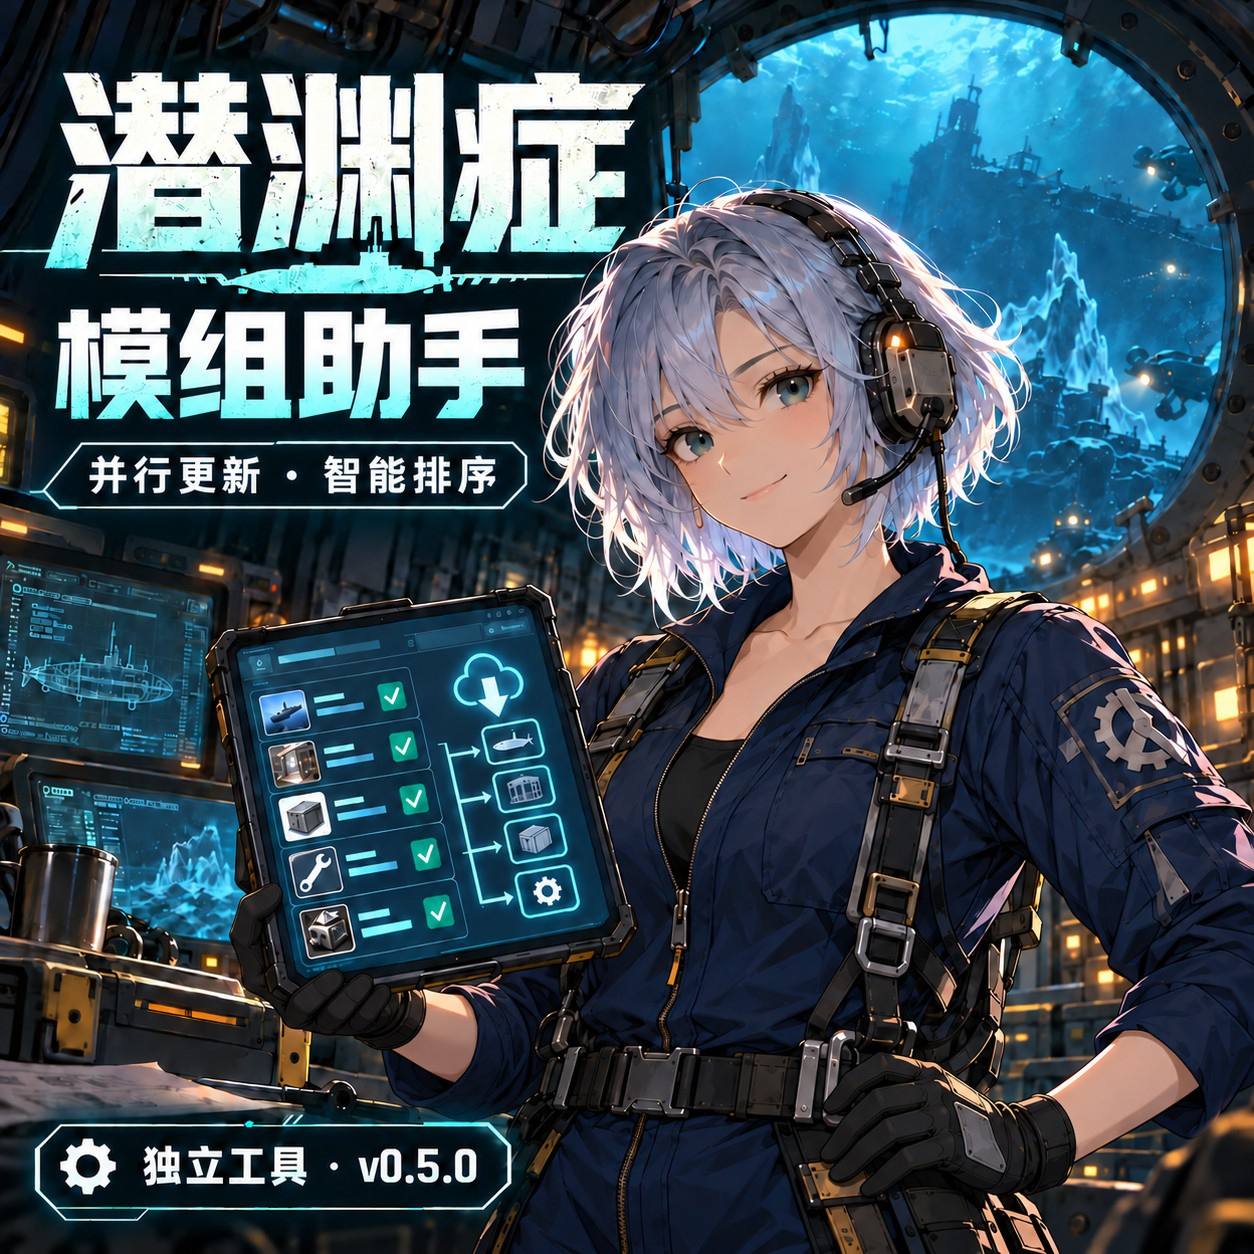
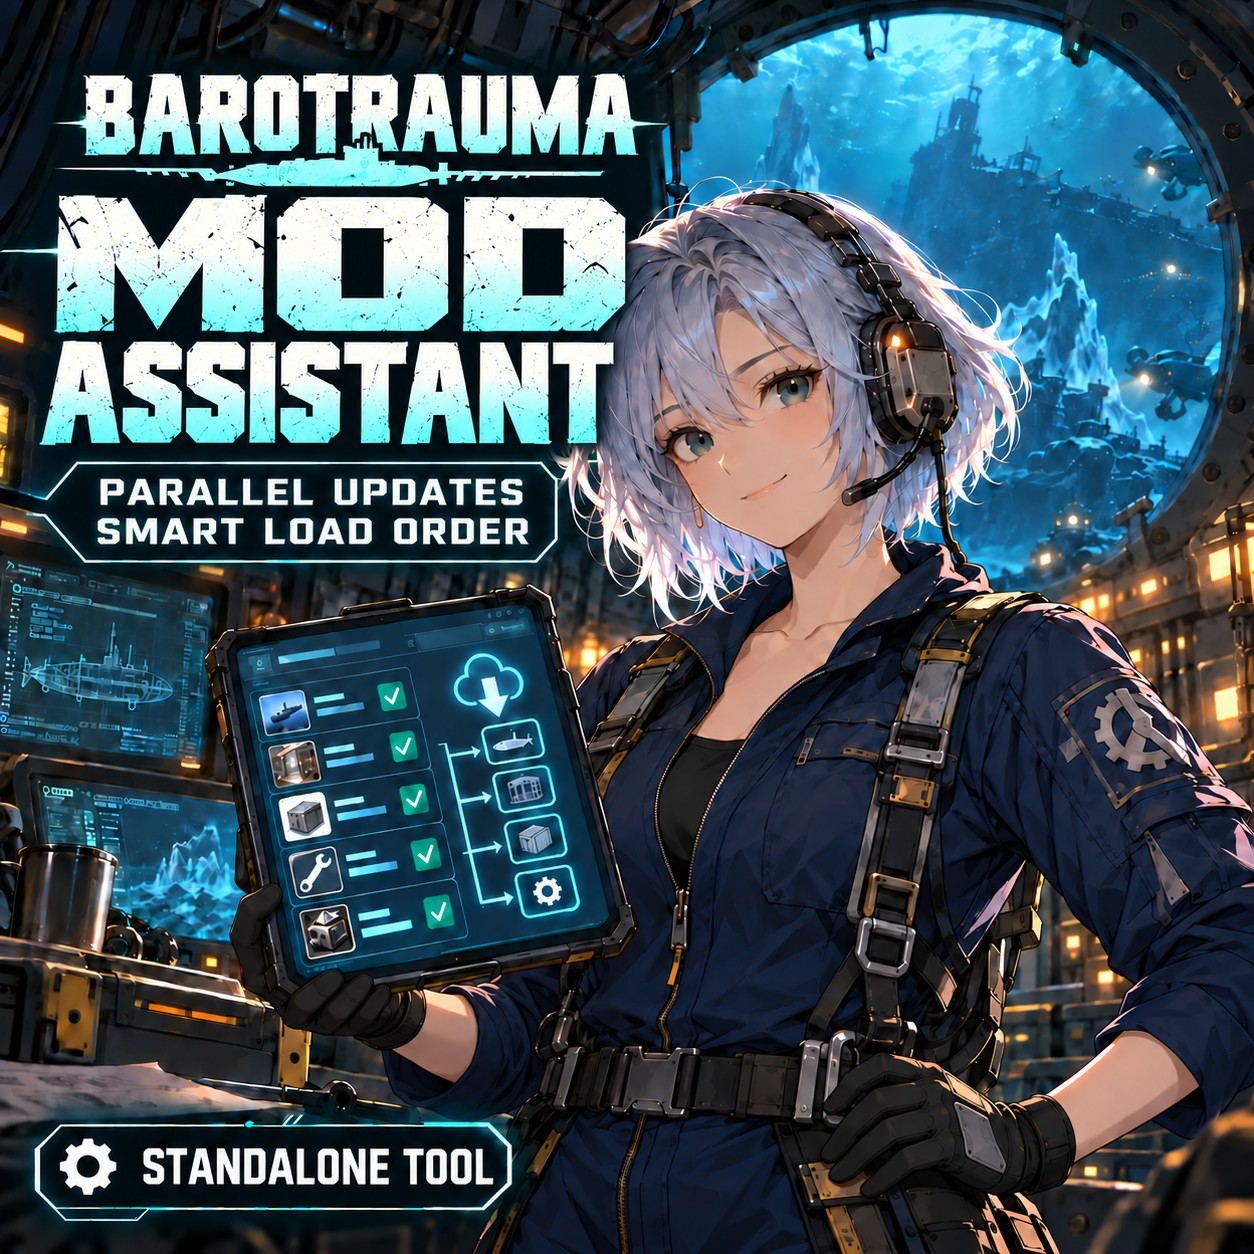
Publish English animated Workshop cover and verify localization

diff --git a/tools/encode_workshop_cover.py b/tools/encode_workshop_cover.py
@@ -1,0 +1,35 @@
+"""Encode the approved imagegen keyframes as a small looping Workshop GIF.
+
+Only format conversion, thumbnail resizing and GIF encoding occur here.
+The artwork and lighting in both input frames were edited with imagegen.
+Requires Pillow. Does not access Steam or modify software release files.
+"""
+from pathlib import Path
+from PIL import Image, ImageChops
+
+ROOT = Path(__file__).resolve().parents[1]
+
+def main():
+    inputs = [Image.open(ROOT / 'workshop/assets' / name).convert('RGB')
+              for name in ('cover-en.png', 'cover-en-bright.png')]
+    assert inputs[0].size == inputs[1].size
+    assert inputs[0].width == inputs[0].height
+    assert ImageChops.difference(*inputs).getbbox(), 'Animation frames must differ'
+    inputs[0].save(ROOT / 'workshop/cover.jpg', quality=90, optimize=True)
+    target = ROOT / 'workshop/cover-en.gif'
+    for size in (900, 800, 768, 700, 640):
+        frames = [im.resize((size, size), Image.Resampling.LANCZOS) for im in inputs]
+        palette = frames[1].quantize(colors=256)
+        frames = [im.quantize(palette=palette, dither=Image.Dither.NONE) for im in frames]
+        frames[0].save(target, save_all=True, append_images=frames[1:],
+                       duration=[1100, 1100], loop=0, optimize=True, disposal=1)
+        if target.stat().st_size < 900_000:
+            break
+    with Image.open(target) as result:
+        assert result.n_frames == 2 and result.info['loop'] == 0
+        assert result.width >= 640 and target.stat().st_size < 900_000
+        print(f'{target.name}: {result.width}x{result.height}, {result.n_frames} frames, '
+              f'{target.stat().st_size} bytes, 2.2s repeating light pulse')
+
+if __name__ == '__main__':
+    main()

diff --git a/workshop/cover-prompt.md b/workshop/cover-prompt.md
@@ -1,6 +1,6 @@
 # 封面制作记录
 
-方式：内置 imagegen 生成及编辑；未使用 CLI 或外部图片库。最终原图：`assets/cover-final.png`，工坊 JPEG：`cover.jpg`。
+方式：插画使用内置 imagegen 生成及编辑；未使用图片生成 CLI。下方首先保留旧中文封面的制作记录，英文动态封面记录见后半部分。
 
 最终提示词要点：原创二次元成年潜艇维修员，银蓝短发、青色眼睛、耳麦、实用深蓝工装与手套，在深海潜艇控制室拿着显示模块、下载箭头和勾选状态的管理平板。深蓝与青色光效，少量琥珀警示灯，窗外是冰冷海底与潜艇轮廓；画面清晰、专业、有吸引力，正方形封面，不采用现有角色或官方标志。
 
@@ -13,4 +13,20 @@
 - 并行更新 · 智能排序
 - 独立工具 · v0.5.0
 
-原图为 1254×1254；上传 JPEG 使用同尺寸格式转换，满足 Steam 预览图小于 1 MiB 的限制。
+旧中文原图为 1254×1254，保留在 `assets/cover-final.png`。
+
+## 英文动态封面（2026-10-03）
+
+使用内置 imagegen 对已经认可的中文封面做两次编辑。人物和构图沿用旧封面，移除版本号，所有文字改为英文。第二帧只要求增强灯光，不改变姿势或添加手臂。两张编辑结果经目视检查后保存为 `assets/cover-en.png` 和 `assets/cover-en-bright.png`。
+
+`tools/encode_workshop_cover.py` 使用 Pillow 将生成结果转换格式、缩小至 800×800、统一 GIF 调色板并编码两帧，各显示 1100 毫秒，无限循环。脚本不绘制光效、不合成额外内容。GIF 小于 900000 字节；静态 JPEG 保留原图尺寸，作为订阅包的兼容图。
+
+### 英文常亮帧完整提示词
+
+Use case: text-localization. Edit target: the supplied square Steam Workshop cover for Barotrauma Mod Assistant. Preserve the approved anime illustration EXACTLY: adult silver-blue short-haired submarine mechanic, teal eyes and headset, face, pose, practical dark-blue clothes, deep-sea submarine control-room backdrop, tablet held by her anatomically correct RIGHT hand on the viewer's LEFT, her LEFT hand on viewer's RIGHT resting on her hip. Exactly two arms and two hands, no extra hands, no new objects. Keep the framing and visual quality. Replace ALL Chinese text and the old version number with crisp readable ENGLISH lettering. Top left text: 'BAROTRAUMA' on one line with smaller condensed bold distressed white/cyan sci-fi type fitting comfortably above a large two-line title 'MOD' then 'ASSISTANT'. Maintain ample room around her face. The middle-left narrow outlined panel reads 'PARALLEL UPDATES' then 'SMART LOAD ORDER' in two readable lines. The bottom-left outlined badge reads 'STANDALONE TOOL'. No version number. No other text or Chinese anywhere. Teal monitor and tablet lights are gently luminous in this first animation keyframe; orange room lights softly glow. Do not redraw her body, hands, tablet UI or background details unnecessarily. Produce ONE square finished cover image, not a grid or multiple panels.
+
+### 灯光增强帧完整提示词
+
+Use case: lighting-weather. This supplied English Barotrauma Mod Assistant cover is the edit TARGET and the first animation keyframe. Make ONLY a very subtle second illumination keyframe for a looping GIF. Keep the image pixel-aligned: same square dimensions, camera, all edges, letters, face, hair, anatomy, both hands, headset, clothing, tablet, all UI glyphs, silhouettes and background geometry EXACTLY unchanged. Keep all English lettering EXACTLY unchanged: BAROTRAUMA / MOD / ASSISTANT / PARALLEL UPDATES / SMART LOAD ORDER / STANDALONE TOOL. Only strengthen cyan emissive highlights in the tablet screen check marks and download icon, cyan screen borders, and in the outlined feature panel and bottom badge, and make tiny orange lamp glows a little brighter. Gentle cyan glow pulse, not overexposure or a global brightness change. NO new objects, no motion, no character redraw, no change in the text shape, no new text, no Chinese, no cropping, no camera move. The bright state must preserve readability. Produce one square cover frame, not a contact sheet.
+
+生成工具：内置 imagegen。编码工具：Pillow。最终主封面：`cover-en.gif`。英文静态兼容图：`cover.jpg`。Steam 主预览支持格式的依据：[SetItemPreview](https://partner.steamgames.com/doc/api/ISteamUGC#SetItemPreview)。实际发布后已下载 Steam 返回的预览文件，确认其 MIME 为 image/gif、两帧、无限循环，字节与上传文件一致。封面在两个语言页面共用，标题与简介仍单独本地化。

diff --git a/workshop/README.md b/workshop/README.md
@@ -2,7 +2,7 @@
 
 将 v0.6.1 的独立程序作为工坊内容包的附带文件分发。`filelist.xml` 为没有游戏资源条目的普通包，不注册可执行文件或脚本，不自动启动助手。用户手动运行 `安装到桌面.cmd` 或英文入口 `Install-to-desktop.cmd`，复制程序到个人目录并建立桌面快捷方式。
 
-`description.bbcode.txt` 是 Steam 页面的中文简介，`description.en.bbcode.txt` 是英文简介，`FIRST_READ.txt` 是订阅后本机说明。实际编号为 `3812360206`，构建分发包时写入 filelist 的 `steamworkshopid`；发布记录在 `publication.json`。`cover.jpg` 为工坊封面，最终原图在 `assets/cover-final.png`；弃用的错误版本不纳入发布包。六张中英文界面截图使用虚构示例清单，未公开个人模组列表。
+`description.bbcode.txt` 是 Steam 页面的中文简介，`description.en.bbcode.txt` 是英文简介，`FIRST_READ.txt` 是订阅后本机说明。实际编号为 `3812360206`，构建分发包时写入 filelist 的 `steamworkshopid`；发布记录在 `publication.json`。当前主封面为英文灯光循环 GIF `cover-en.gif`，`cover.jpg` 为订阅包附带的英文静态兼容图。英文原图在 `assets/cover-en.png`，灯光增强帧在 `assets/cover-en-bright.png`；先前认可的中文原图留存在 `assets/cover-final.png`。弃用的错误版本不纳入发布包。六张中英文界面截图使用虚构示例清单，未公开个人模组列表。
 
 项目通过 Steam 的语言设置分别维护 `schinese` 和 `english` 标题与简介，保留作者修改后的标题。项目已公开。v0.6.1 程序右上角提供即时中文/英文切换，附带英文使用说明与桌面安装入口；两个页面顶部均提供公开源码和最新下载链接。上传后逐语言回读核验简介，并下载工坊内容逐文件校验。
 
@@ -10,4 +10,8 @@
 
 技术依据：游戏的 [内容包文档](https://regalis11.github.io/BaroModDoc/Intro/ContentPackages.html)、[安装目录复制逻辑](https://github.com/FakeFishGames/Barotrauma/blob/master/Barotrauma/BarotraumaShared/SharedSource/Steam/Workshop.cs) 和 Steam 的 [工坊接口](https://partner.steamgames.com/doc/api/ISteamUGC)。游戏复制包目录里的附带文件；内容加载仍由 filelist 中的资源条目决定。
 
-封面提示词和生成方式见 [cover-prompt.md](cover-prompt.md)。使用内置 imagegen 生成，修正为右手持平板、左手扶腰，并调整标题避免遮挡。用于上传的 JPEG 仅转换格式压缩，保留原图尺寸和构图。
+封面提示词和生成方式见 [cover-prompt.md](cover-prompt.md)。插画、英文文字和两帧灯光均使用内置 imagegen 编辑，保留右手持平板、左手扶腰的姿势。`tools/encode_workshop_cover.py` 仅将完成的图片调整输出尺寸并转换、编码为 GIF/JPEG，不绘制或修改插画。GIF 为 800×800、两帧、2.2 秒循环、843577 字节。Steam 上传后返回的预览文件与本地 GIF 逐字节一致，保留两帧和无限循环；订阅包的九个文件亦已回下载校验，程序仍为 v0.6.1。
+
+封面由中英文页面共用；标题、简介通过 Steam 的语言选项分别显示。英文标题和简介已通过 Steam 的 `english` 查询回读核验，介绍中不再包含中文字符。公开网页本次请求被 HTTP 429 限流，因此没有声称完成网页界面的直接目视核验。
+
+![English animated cover](cover-en.gif)
